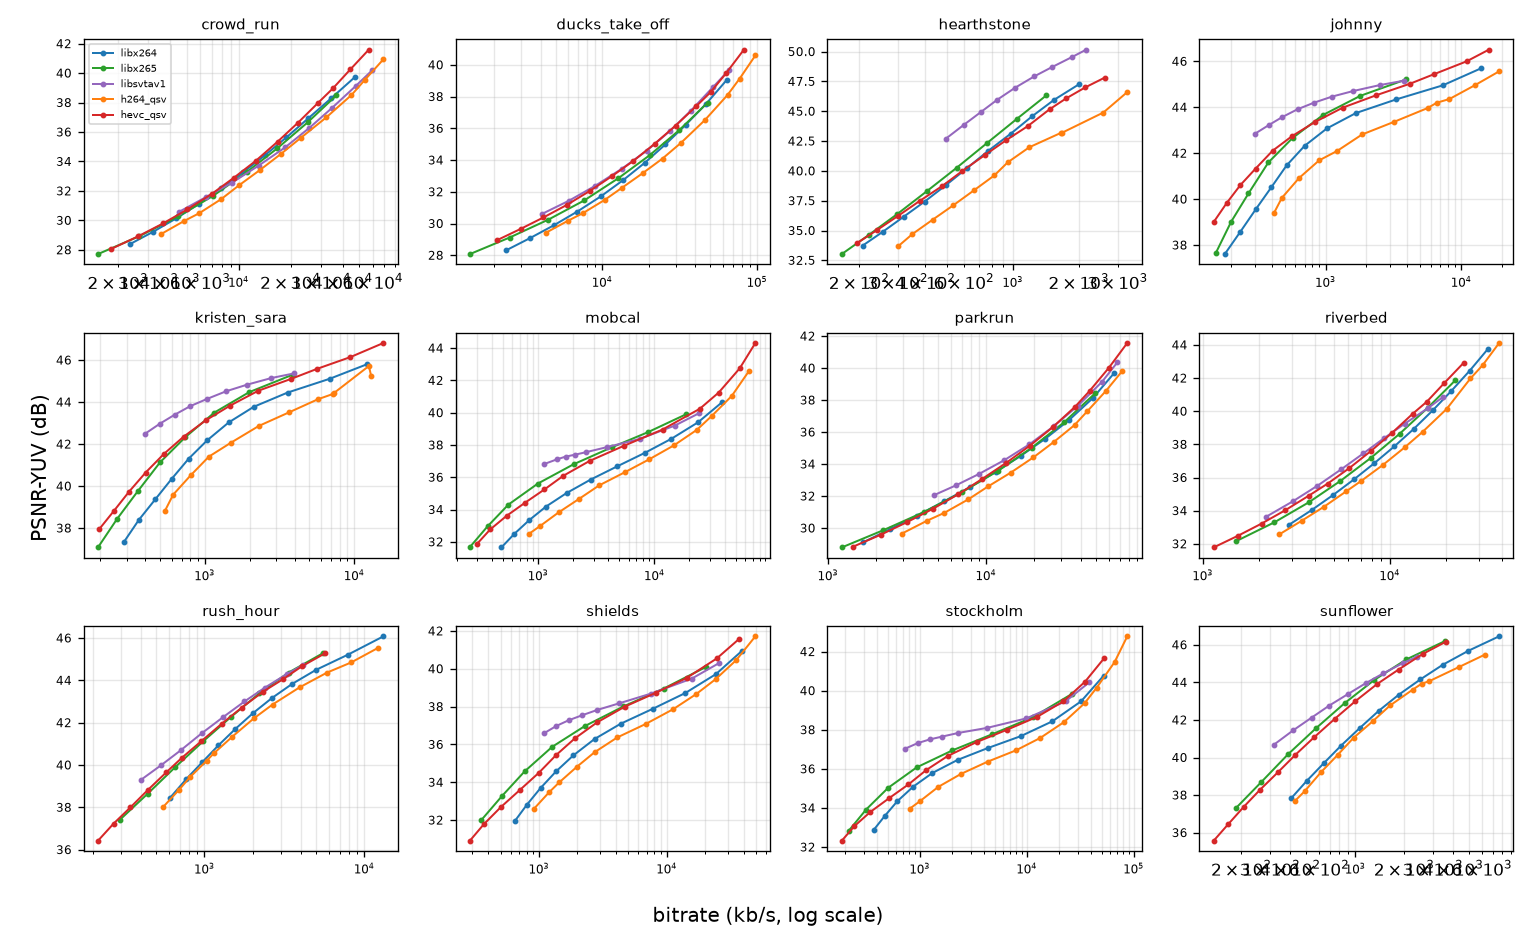
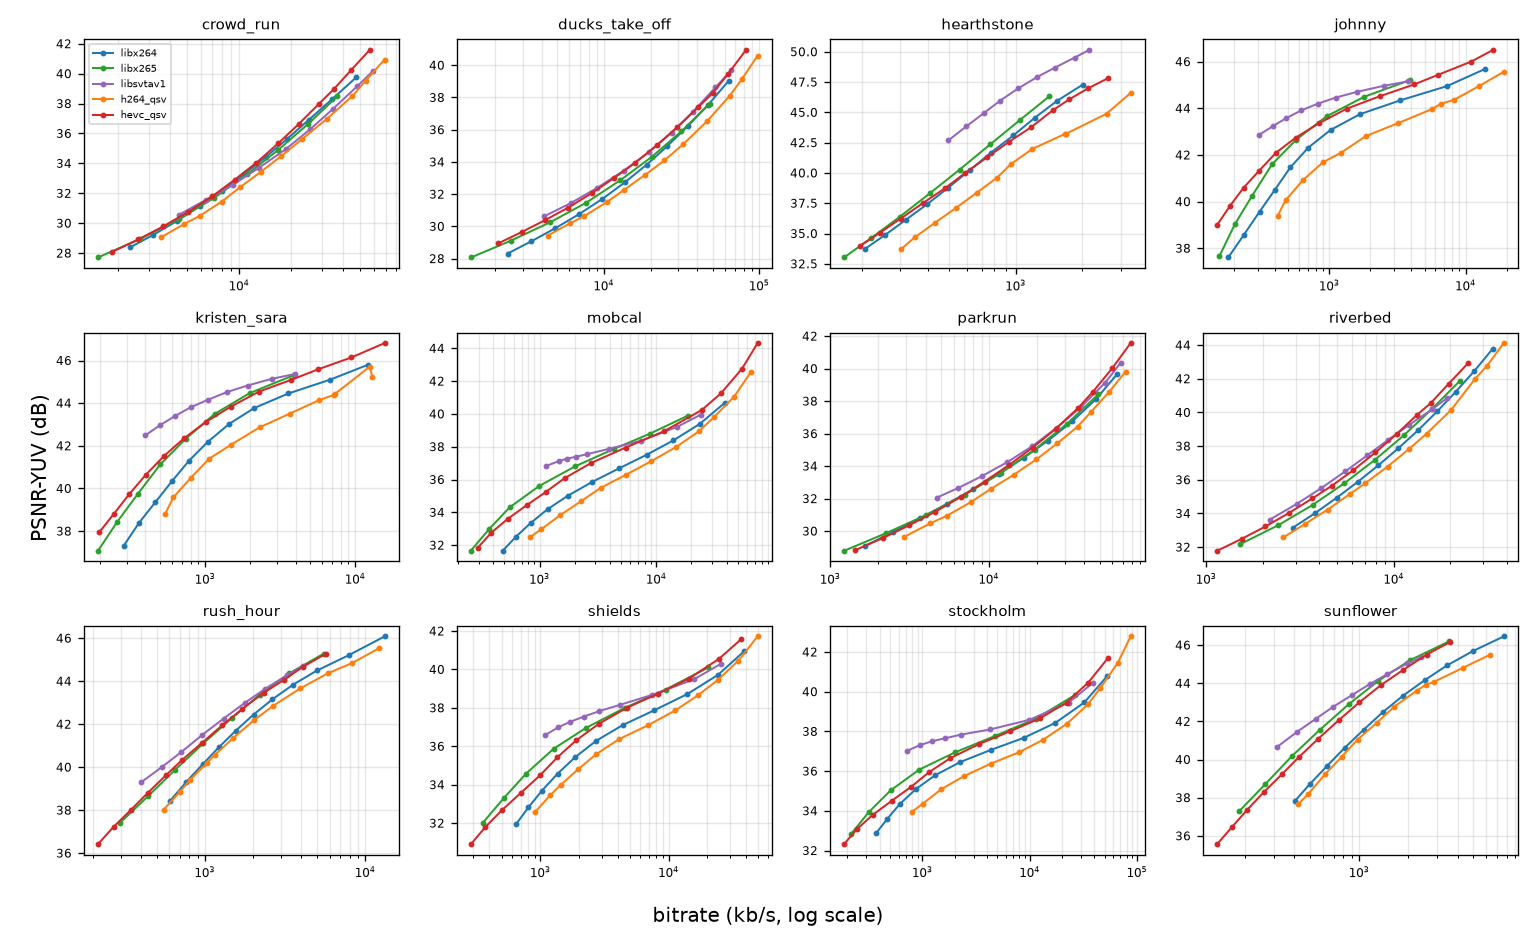
PFE bench: hide minor tick labels on log-rate axes (overlapping labels)

diff --git a/bench/codecs/analyze.py b/bench/codecs/analyze.py
@@ -142,6 +142,7 @@ def main() -> None:
     import matplotlib
     matplotlib.use("Agg")
     import matplotlib.pyplot as plt
+    import matplotlib.ticker  # noqa: F401
 
     for metric, label in (("vmaf", "VMAF"), ("psnr_yuv", "PSNR-YUV (dB)"), ("ssim", "SSIM")):
         clips = sorted(raw["clip"].unique())
@@ -154,6 +155,7 @@ def main() -> None:
                 d = g[g.encoder == e].sort_values("kbps")
                 ax.plot(d.kbps, d[metric], "o-", ms=2.5, lw=1.2, color=COLORS[e], label=e)
             ax.set_xscale("log")
+            ax.xaxis.set_minor_formatter(matplotlib.ticker.NullFormatter())
             ax.set_title(clip, fontsize=9)
             ax.grid(alpha=0.3, which="both")
             ax.tick_params(labelsize=7)
